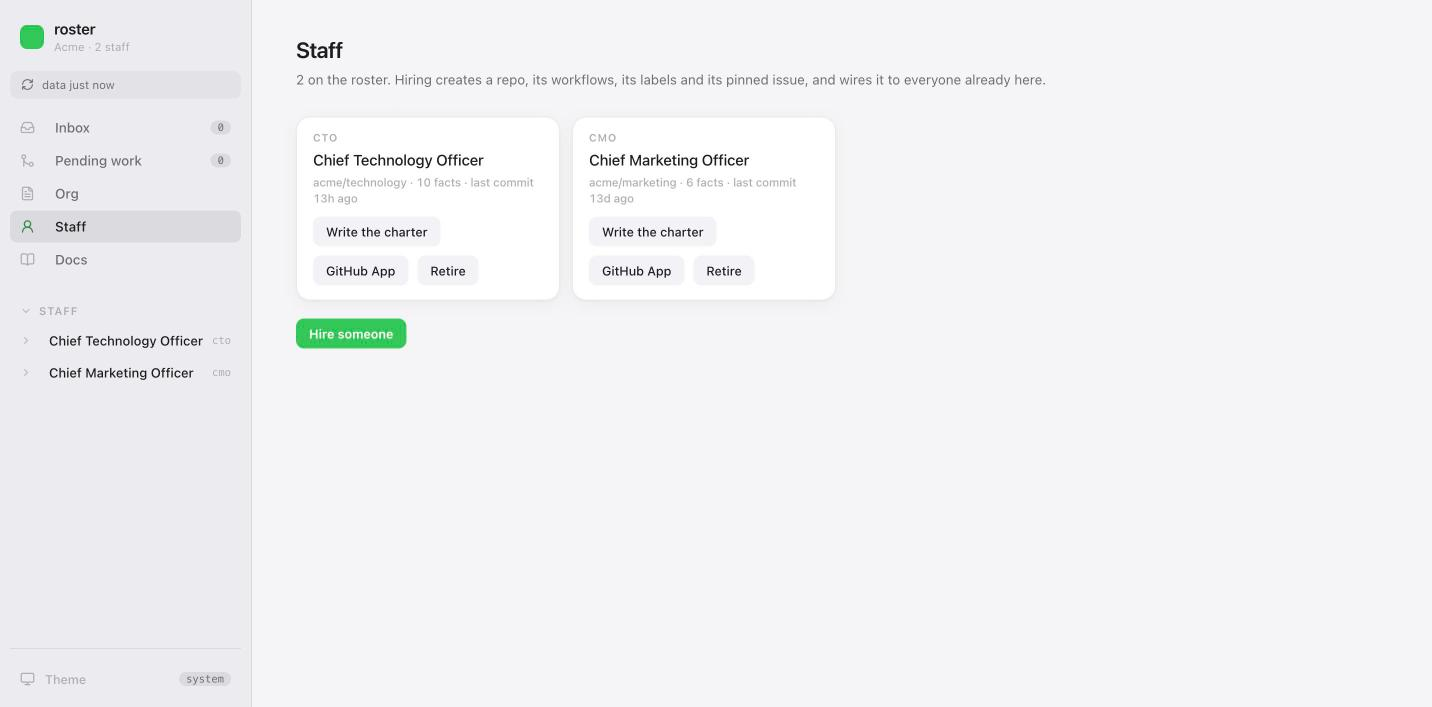
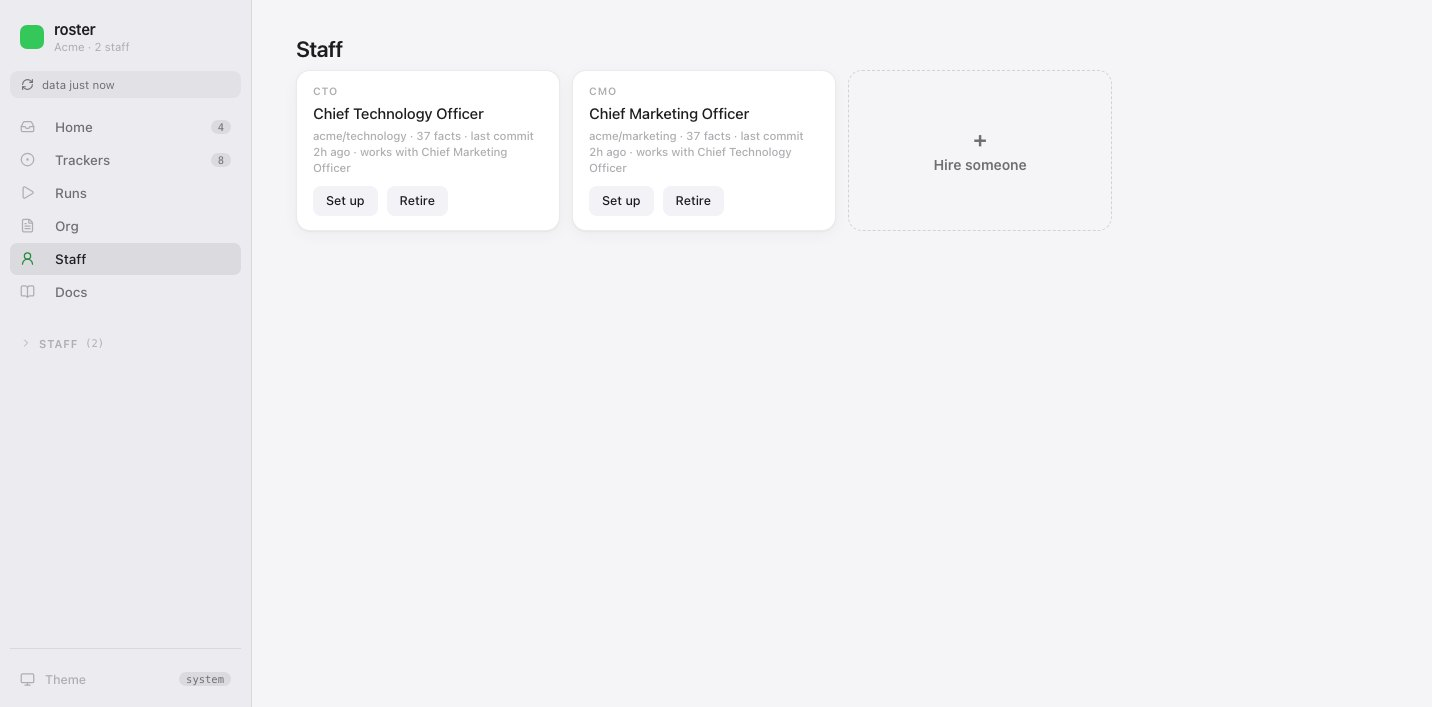
website: fresh portal screenshots, Home first in the showcase, and the mock's sidebar as it is now

diff --git a/website/src/components/Showcase.tsx b/website/src/components/Showcase.tsx
@@ -21,6 +21,12 @@ const onGithub = [
 
 const screens: { label: string; body: string; src: string; dark?: string }[] = [
   {
+    label: "Home",
+    body: "What needs you, who is working right now, what you asked for, and what was closed today. Click anything to read the thread and reply.",
+    src: "/screens/home.jpg",
+    dark: "/screens/home-dark.jpg",
+  },
+  {
     label: "Brain",
     body: "A staff member's facts, notes and files in one place, because they were always the same thing.",
     src: "/screens/brain.jpg",

diff --git a/website/src/components/Day.tsx b/website/src/components/Day.tsx
@@ -20,7 +20,7 @@ const steps = [
   {
     time: "07:23",
     title: "They hand off",
-    body: "Finished work waits for you to merge. Decisions wait in your Inbox. Memory is pruned.",
+    body: "Finished work waits for you to merge. Decisions wait on Home. Memory is pruned.",
   },
 ];
 

diff --git a/website/src/components/PortalMock.tsx b/website/src/components/PortalMock.tsx
@@ -1,8 +1,9 @@
 import { Mark } from "./Logo";
 
 const nav = [
-  { label: "Inbox", n: "3" },
-  { label: "Pending work", n: "1" },
+  { label: "Home", n: "3" },
+  { label: "Trackers", n: "8" },
+  { label: "Runs" },
   { label: "Org" },
   { label: "Staff" },
   { label: "Docs" },

diff --git a/docs/portal.md b/docs/portal.md
@@ -80,6 +80,8 @@ goes away; the repo picker lives on under [Org](#org).
 
 ## Home
 
+![Home: latest reports, what needs you, and the Ask box](images/home.jpg)
+
 Where the portal opens. An Ask box at the top, then these, in order.
 
 - **Ask.** Pick a staff member, type what you want, **Send**. It opens an issue on their
